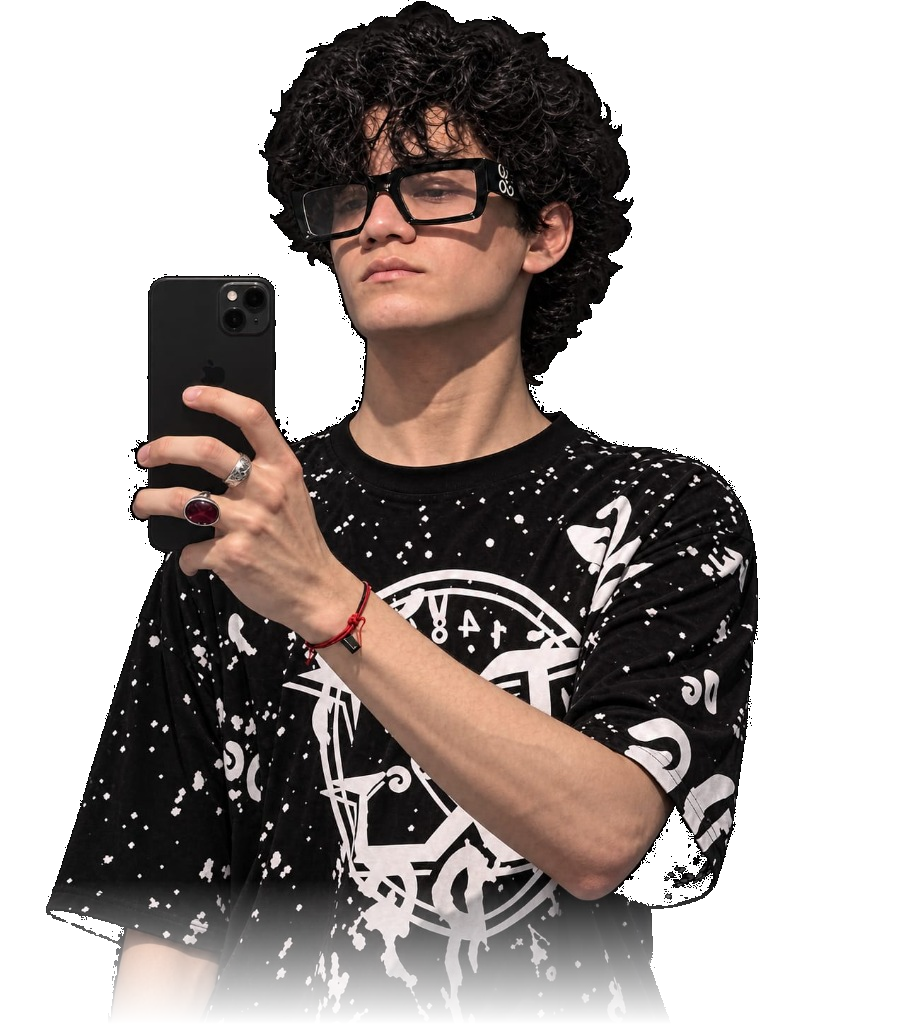
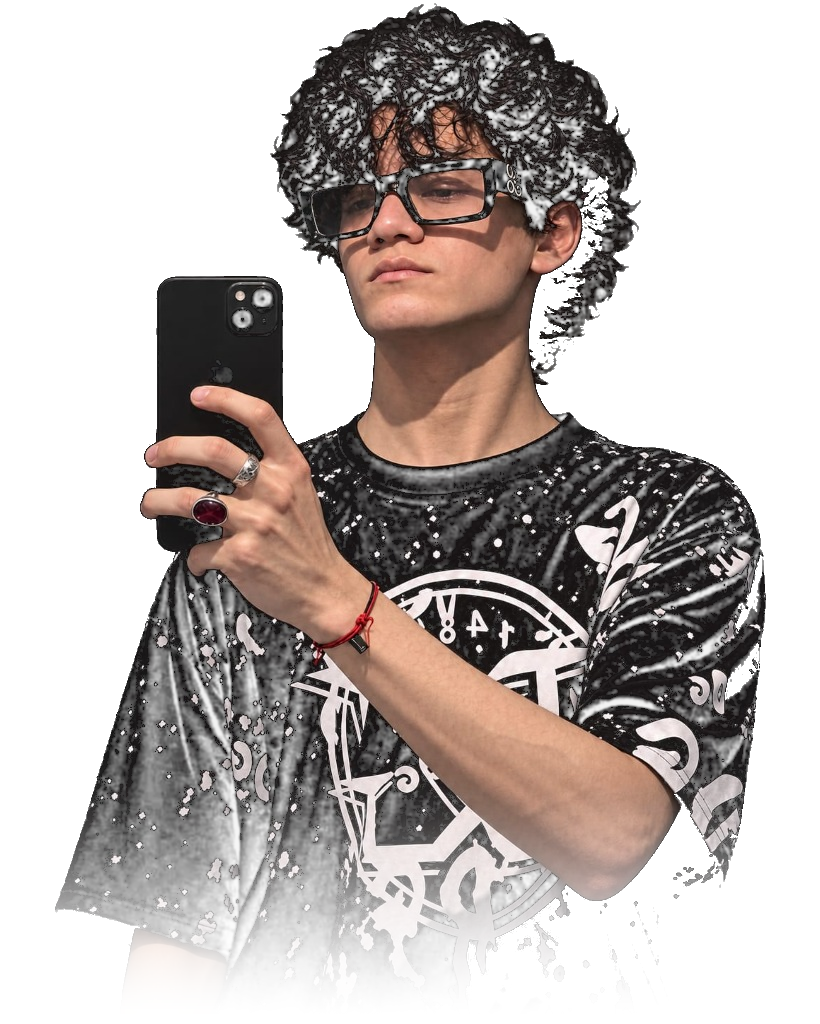
feat(hero): replace portrait with ultra-smooth cutout and seamless bottom alpha fade

diff --git a/src/components/Hero.jsx b/src/components/Hero.jsx
@@ -109,7 +109,7 @@ export default function Hero({ motionEnabled }) {
           animate={{ opacity: 1, scale: 1 }}
           transition={{ duration: 1, ease: [0.22, 1, 0.36, 1], delay: 0.1 }}
           loading="eager"
-          width="900"
+          width="820"
           height="1024"
         />
       </motion.div>
